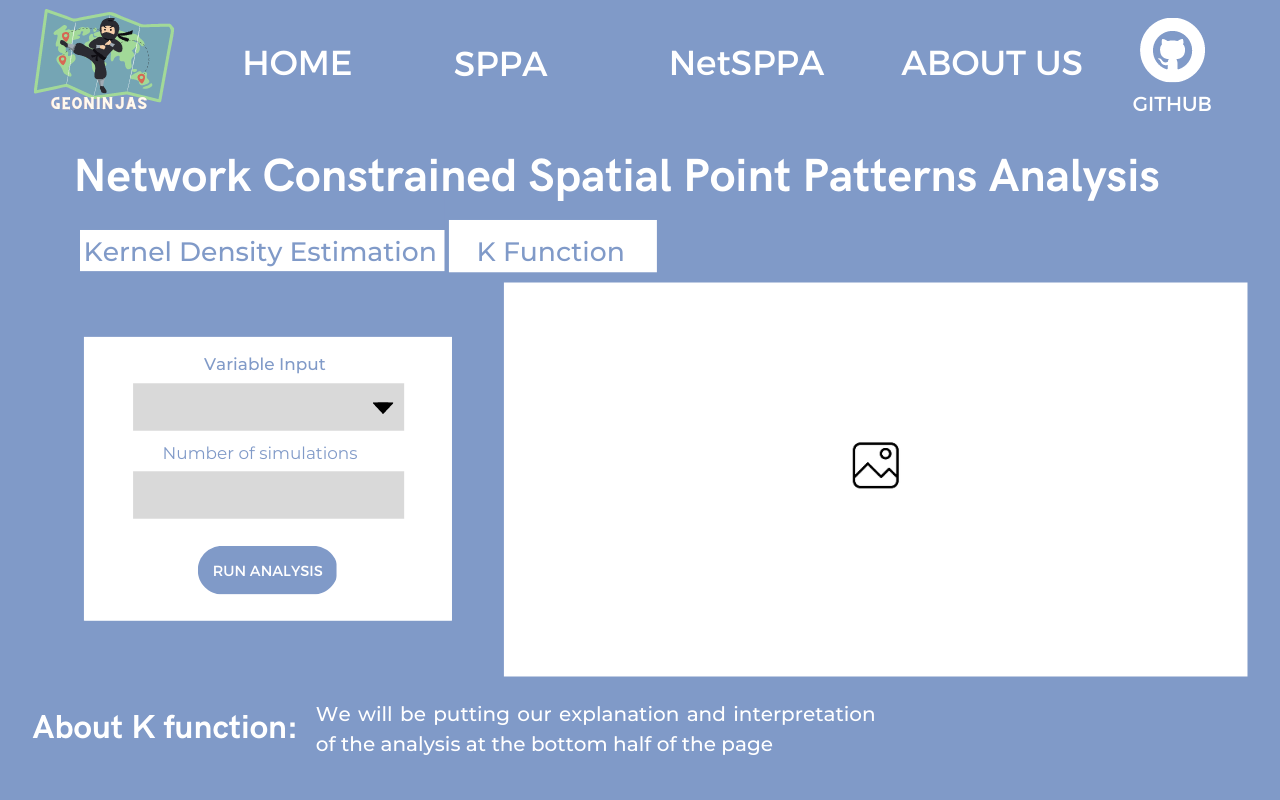
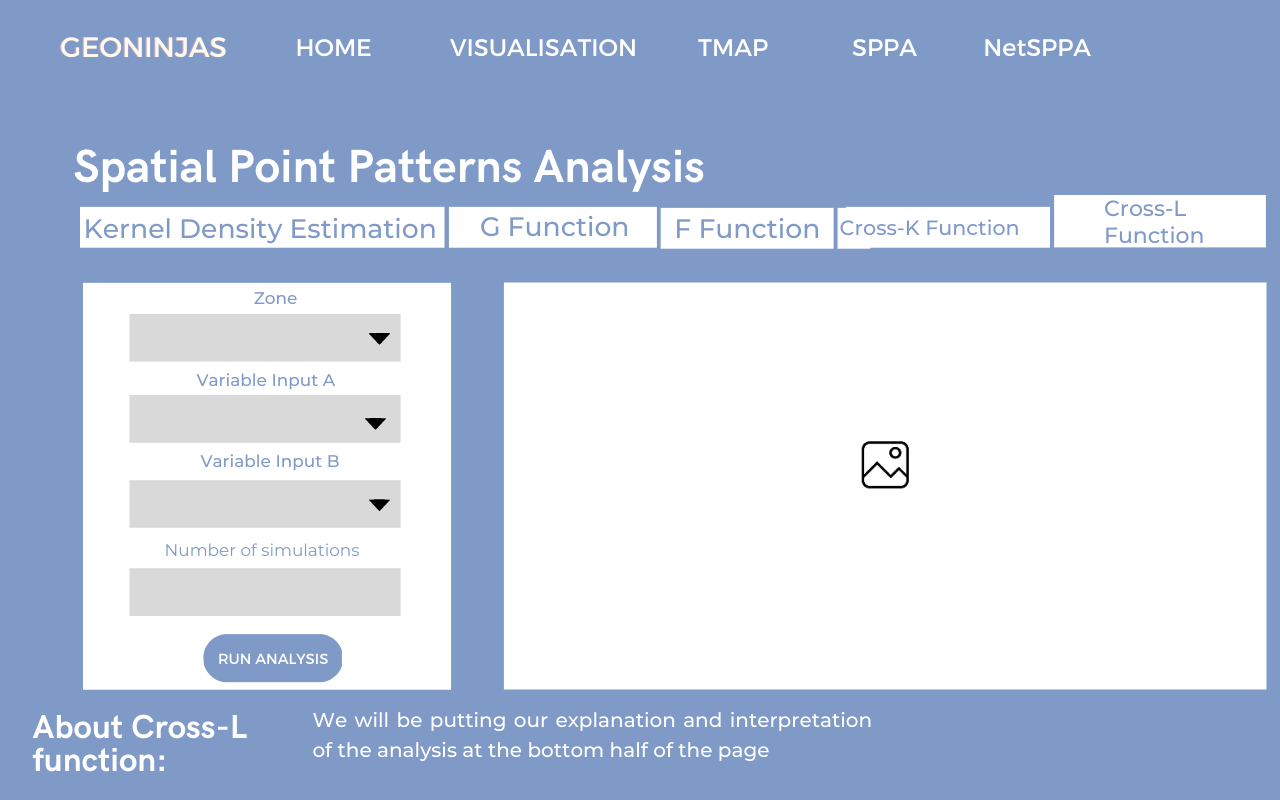
update overview and storyboard

diff --git a/_site/overview.html b/_site/overview.html
@@ -143,9 +143,10 @@ ul.task-list li input[type="checkbox"] {
   <li><a href="#storyboard" id="toc-storyboard" class="nav-link" data-scroll-target="#storyboard">9 Storyboard</a>
   <ul class="collapse">
   <li><a href="#home-page" id="toc-home-page" class="nav-link" data-scroll-target="#home-page">Home Page</a></li>
+  <li><a href="#visualisation-page" id="toc-visualisation-page" class="nav-link" data-scroll-target="#visualisation-page">Visualisation Page</a></li>
+  <li><a href="#tmap-page" id="toc-tmap-page" class="nav-link" data-scroll-target="#tmap-page">Tmap Page</a></li>
   <li><a href="#spatial-point-patterns-analysis-page" id="toc-spatial-point-patterns-analysis-page" class="nav-link" data-scroll-target="#spatial-point-patterns-analysis-page">Spatial Point Patterns Analysis Page</a></li>
   <li><a href="#network-constrained-spatial-point-patterns-analysis-page" id="toc-network-constrained-spatial-point-patterns-analysis-page" class="nav-link" data-scroll-target="#network-constrained-spatial-point-patterns-analysis-page">Network Constrained Spatial Point Patterns Analysis Page</a></li>
-  <li><a href="#about-page" id="toc-about-page" class="nav-link" data-scroll-target="#about-page">About Page</a></li>
   </ul></li>
   <li><a href="#application-architecture" id="toc-application-architecture" class="nav-link" data-scroll-target="#application-architecture">10 Application Architecture</a></li>
   <li><a href="#timeline" id="toc-timeline" class="nav-link" data-scroll-target="#timeline">11 Timeline</a></li>
@@ -178,24 +179,25 @@ ul.task-list li input[type="checkbox"] {
 </section>
 <section id="abstract" class="level2">
 <h2 class="anchored" data-anchor-id="abstract">2 Abstract</h2>
-<p>Spatial point patterns analysis studies the distribution of the points, whether the distribution is random or clustered. This form of analysis can be very useful in the evaluation of events such as crime, traffic accidents, diseases, etc. Thus, we would be able to plan after the analysis and investigate whether there are any dependency relationships between different point distributions to make a comparison and conclusion.</p>
-<p>Another kind of spatial point patterns analysis is called network constrained spatial point patterns analysis which allows us to analyse if the distribution of the spatial point events are affected by a network or whether the spatial point events occur alongside a network.&nbsp;</p>
-<p>To illustrate the functions of our Shiny application, we will use Airbnb as an example.&nbsp;</p>
-<p>For spatial point patterns analysis, we would like to find out if the Airbnb locations in Singapore are randomly distributed throughout the country and if not, where are the locations with higher concentrations of Airbnb. Also, at these locations of higher concentration, do the Airbnb locations co-exist with other point events like train stations, hotels, etc.?&nbsp;</p>
-<p>For network constrained spatial point patterns analysis, we would like to discover whether the distribution of the Airbnb locations are affected by the road network in Singapore. Through these analyses, we can investigate whether the distribution of Airbnb locations in Singapore are affected by point events or the road network.</p>
+<p>Spatial point patterns analysis (SPPA) studies the distribution of the points, whether the distribution is random or clustered. This form of analysis can be very useful in the evaluation of events and we would be able to investigate whether there are any dependency relationships between different point distributions to make a comparison and conclusion.</p>
+<p>Another kind of spatial point patterns analysis is called network constrained spatial point patterns analysis (NetSPPA) which allows us to analyse if the distribution of the spatial point events are affected by a network or whether the spatial point events occur alongside a network.&nbsp;</p>
+<p>The application our team developed allows tourists, policy makers and community members to visualise and analyse the distribution of Airbnb listings in Singapore on a map. The app can be used to help better understand the impact of Airbnbs on the local housing market, improve urban planning and enhance tourism development. With our app, users can select and modify their inputs to conduct both SPPA and NetSPPA.&nbsp;</p>
+<p>For spatial point patterns analysis, we would like to find out if the Airbnb locations in Singapore are randomly distributed throughout the country and if not, where are the locations with higher concentrations of Airbnb. Also, at these locations of higher concentration, do the Airbnb locations co-exist with other point events like train stations, hotels, etc.? Users can use Kernel Density Estimation, G-Function, F-Function, Cross K-Function and Cross L-Function.</p>
+<p>For network constrained spatial point patterns analysis, we would like to discover whether the distribution of the Airbnb locations are affected by the road network in Singapore. Through these analyses, we can investigate whether the distribution of Airbnb locations in Singapore are affected by point events or the road network. Users can use Network Kernel Density Estimation, K-Function and Network Cross K-Function.</p>
 </section>
 <section id="problem-motivation" class="level2">
 <h2 class="anchored" data-anchor-id="problem-motivation">3 Problem &amp; Motivation</h2>
-<p>Geographical data is abundant online for users to use freely. However, many do not know what tool to use or know how to make use of those data since they are in different file formats like geojson, csv, shapefile and more.</p>
-<p>The aim of our project is to create a Shiny web application that will help users with the geographical analysis of Airbnbs, in particular spatial point patterns analysis. As such, one does not need to be technically trained to conduct the analysis.</p>
+<p>Our team decided to develop an application that allows users to analyse Airbnb listings in Singapore and their relationships with other points of interest (MRTs, bus stops etc.) as there is a lack of such apps for Singapore Airbnb listings.</p>
+<p>After the COVID pandemic, with travelling becoming the norm and Singapore as <a href="https://www.straitstimes.com/singapore/singapore-is-2nd-most-visited-city-in-asia-pacific-5th-in-the-world-mastercard">one of the most popular cities to travel to in the world</a>, Singapore Airbnb listing information would deem to be extremely valuable. Moreover, with the <a href="https://www.gov.sg/article/singapore-is-it-really-the-most-expensive-place-to-live">high cost of living in Singapore</a>, many tourists would turn to cheaper accommodation options like Airbnb rentals.</p>
+<p>In order to provide a good accommodation experience for such tourists, it is crucial to analyse the current Airbnb listings in Singapore to study the regions where Airbnb listings are most prevalent and why.</p>
 </section>
 <section id="project-objectives" class="level2">
 <h2 class="anchored" data-anchor-id="project-objectives">4 Project Objectives</h2>
 <p>In this project, we would like our Shiny web application to help users:</p>
 <ol type="1">
 <li>Visualise distributions and realise the benefits of spatial point patterns analysis</li>
-<li>Conduct spatial point patterns analysis (Kernel density estimation, G Function, F Function, Cross K Function, Cross L Function)</li>
-<li>Conduct network constrained spatial point patterns analysis (NetKDE and K Function, Cross K Function)</li>
+<li>Conduct spatial point patterns analysis (Kernel density estimation, G-Function, F-Function, Cross K-Function, Cross L-Function)</li>
+<li>Conduct network constrained spatial point patterns analysis (NetKDE and K-Function, Cross K-Function)</li>
 <li>Use all the insights gathered from the analysis and models to make practical decisions</li>
 </ol>
 </section>
@@ -210,7 +212,7 @@ ul.task-list li input[type="checkbox"] {
 <li>Different variables for analysis</li>
 <li>Various bandwidth selection methods (diggle, CvL, scott, ppl)</li>
 <li>Various Kernel Methods (gaussian, epanechnikov, quartic, disc)</li>
-<li>Various Statistical Functions (G/F/Cross K/Cross L functions)</li>
+<li>Various Statistical Functions (G/F/Cross K/Cross L-Functions)</li>
 </ul></li>
 <li>Sliders
 <ul>
@@ -279,10 +281,10 @@ ul.task-list li input[type="checkbox"] {
 </ul></li>
 <li>Second-order analysis
 <ul>
-<li>G Function</li>
-<li>F Function</li>
-<li>Cross K Function</li>
-<li>Cross L Function</li>
+<li>G-Function</li>
+<li>F-Function</li>
+<li>Cross K-Function</li>
+<li>Cross L-Function</li>
 </ul></li>
 </ul></li>
 <li>Network Constrained Spatial Point Patterns Analysis
@@ -293,8 +295,8 @@ ul.task-list li input[type="checkbox"] {
 </ul></li>
 <li>Second-order analysis
 <ul>
-<li>K Function</li>
-<li>Cross K Function</li>
+<li>K-Function</li>
+<li>Cross K-Function</li>
 </ul></li>
 </ul></li>
 </ul>
@@ -373,7 +375,6 @@ ul.task-list li input[type="checkbox"] {
 </section>
 <section id="storyboard" class="level2">
 <h2 class="anchored" data-anchor-id="storyboard">9 Storyboard</h2>
-<p>The following UI interfaces were designed during our proposal stage on what we envisioned our shiny app to look like. Hence, our shiny app may differ from the following designs.</p>
 <section id="home-page" class="level3">
 <h3 class="anchored" data-anchor-id="home-page">Home Page</h3>
 <div class="quarto-figure quarto-figure-center">
@@ -382,18 +383,24 @@ ul.task-list li input[type="checkbox"] {
 </figure>
 </div>
 </section>
-<section id="spatial-point-patterns-analysis-page" class="level3">
-<h3 class="anchored" data-anchor-id="spatial-point-patterns-analysis-page">Spatial Point Patterns Analysis Page</h3>
+<section id="visualisation-page" class="level3">
+<h3 class="anchored" data-anchor-id="visualisation-page">Visualisation Page</h3>
 <div class="quarto-figure quarto-figure-center">
 <figure class="figure">
 <p><img src="images/2.png" class="img-fluid figure-img"></p>
 </figure>
 </div>
+</section>
+<section id="tmap-page" class="level3">
+<h3 class="anchored" data-anchor-id="tmap-page">Tmap Page</h3>
 <div class="quarto-figure quarto-figure-center">
 <figure class="figure">
 <p><img src="images/3.png" class="img-fluid figure-img"></p>
 </figure>
 </div>
+</section>
+<section id="spatial-point-patterns-analysis-page" class="level3">
+<h3 class="anchored" data-anchor-id="spatial-point-patterns-analysis-page">Spatial Point Patterns Analysis Page</h3>
 <div class="quarto-figure quarto-figure-center">
 <figure class="figure">
 <p><img src="images/4.png" class="img-fluid figure-img"></p>
@@ -419,9 +426,6 @@ ul.task-list li input[type="checkbox"] {
 <p><img src="images/8.png" class="img-fluid figure-img"></p>
 </figure>
 </div>
-</section>
-<section id="network-constrained-spatial-point-patterns-analysis-page" class="level3">
-<h3 class="anchored" data-anchor-id="network-constrained-spatial-point-patterns-analysis-page">Network Constrained Spatial Point Patterns Analysis Page</h3>
 <div class="quarto-figure quarto-figure-center">
 <figure class="figure">
 <p><img src="images/9.png" class="img-fluid figure-img"></p>
@@ -433,9 +437,23 @@ ul.task-list li input[type="checkbox"] {
 </figure>
 </div>
 </section>
-<section id="about-page" class="level3">
-<h3 class="anchored" data-anchor-id="about-page">About Page</h3>
-<p><img src="images/11.png" class="img-fluid"></p>
+<section id="network-constrained-spatial-point-patterns-analysis-page" class="level3">
+<h3 class="anchored" data-anchor-id="network-constrained-spatial-point-patterns-analysis-page">Network Constrained Spatial Point Patterns Analysis Page</h3>
+<div class="quarto-figure quarto-figure-center">
+<figure class="figure">
+<p><img src="images/11.png" class="img-fluid figure-img"></p>
+</figure>
+</div>
+<div class="quarto-figure quarto-figure-center">
+<figure class="figure">
+<p><img src="images/12.png" class="img-fluid figure-img"></p>
+</figure>
+</div>
+<div class="quarto-figure quarto-figure-center">
+<figure class="figure">
+<p><img src="images/13.png" class="img-fluid figure-img"></p>
+</figure>
+</div>
 </section>
 </section>
 <section id="application-architecture" class="level2">
